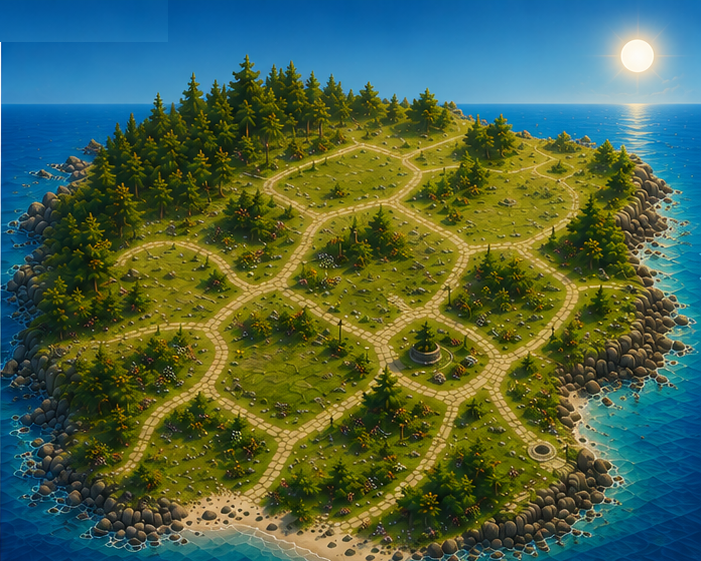
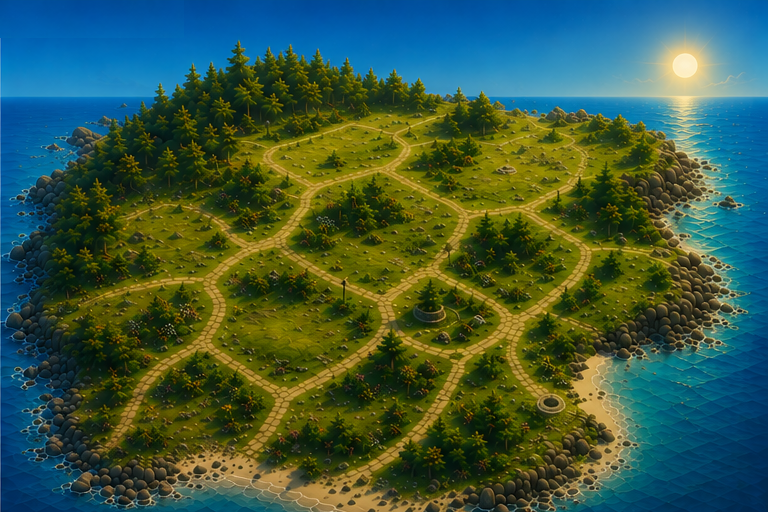
fix(map): ground building anchors to sprite base; buffered plate source
Anchors' y is now the sprite ground-contact (engine draws bottom at y*H), so
buildings sit on their plots instead of floating a half-height above. Plates
regenerated from the buffered blank terrain (full water margin); importer prefers
Maps/Midday.png then the blank, falling back to the labelled sheet.

Green: tsc, 407 tests, build.

Claude-Session: https://claude.ai/code/session_012FwgwgaKPTNAqU95ueK5yk

diff --git a/src/data/town-layout.ts b/src/data/town-layout.ts
@@ -104,22 +104,25 @@ export const TOWN_BUILDINGS_V2: readonly TownPiece[] = [
   // Sawmill+Farm across the north ridge, Lighthouse alone on its NE islet;
   // the Garden dome and Well run the centre spine; Fisher Hut + Dock sit on the
   // east/SE water; the south beach and north forest stay clear.
-  { art: 'prop_sign', x: 0.56, y: 0.52, w: 0.042, unlockAt: 1 },
-  { art: 'town_cottage', x: 0.31, y: 0.46, w: 0.13, unlockAt: 2, smoke: { dx: 0.18, dy: -0.72 }, ruinVariant: 0 },
-  { art: 'town_bakery', x: 0.64, y: 0.37, w: 0.125, unlockAt: 4, smoke: { dx: -0.2, dy: -0.78 }, ruinVariant: 2 },
-  { art: 'prop_well', x: 0.61, y: 0.47, w: 0.08, unlockAt: 6 },
-  { art: 'town_market', x: 0.66, y: 0.59, w: 0.115, unlockAt: 8, ruinVariant: 7 },
-  { art: 'town_garden', x: 0.52, y: 0.34, w: 0.135, unlockAt: 10, ruinVariant: 4 },
-  { art: 'town_townhall', x: 0.35, y: 0.34, w: 0.14, unlockAt: 12, ruinVariant: 3 },
-  { art: 'town_workshop', x: 0.52, y: 0.58, w: 0.125, unlockAt: 15, smoke: { dx: 0.16, dy: -0.75 }, ruinVariant: 1 },
-  { art: 'town_farm', x: 0.65, y: 0.25, w: 0.135, unlockAt: 16, ruinVariant: 5 },
+  // y is the sprite's GROUND CONTACT (bottom-center) — the engine draws
+  // drawImage(img, x*W - w/2, y*H - h) — so each y sits the building's base on
+  // its plot rather than floating the whole sprite above it.
+  { art: 'prop_sign', x: 0.56, y: 0.552, w: 0.042, unlockAt: 1 },
+  { art: 'town_cottage', x: 0.31, y: 0.511, w: 0.13, unlockAt: 2, smoke: { dx: 0.18, dy: -0.72 }, ruinVariant: 0 },
+  { art: 'town_bakery', x: 0.64, y: 0.421, w: 0.125, unlockAt: 4, smoke: { dx: -0.2, dy: -0.78 }, ruinVariant: 2 },
+  { art: 'prop_well', x: 0.61, y: 0.508, w: 0.08, unlockAt: 6 },
+  { art: 'town_market', x: 0.66, y: 0.638, w: 0.115, unlockAt: 8, ruinVariant: 7 },
+  { art: 'town_garden', x: 0.52, y: 0.394, w: 0.135, unlockAt: 10, ruinVariant: 4 },
+  { art: 'town_townhall', x: 0.35, y: 0.407, w: 0.14, unlockAt: 12, ruinVariant: 3 },
+  { art: 'town_workshop', x: 0.52, y: 0.628, w: 0.125, unlockAt: 15, smoke: { dx: 0.16, dy: -0.75 }, ruinVariant: 1 },
+  { art: 'town_farm', x: 0.65, y: 0.305, w: 0.135, unlockAt: 16, ruinVariant: 5 },
   // Joss's hut sits on the east shore, its stilt-deck out over the water
-  { art: 'town_fisherhut', x: 0.85, y: 0.48, w: 0.125, unlockAt: 18, ruinVariant: 6, water: true },
-  { art: 'town_sawmill', x: 0.47, y: 0.24, w: 0.13, unlockAt: 20, ruinVariant: 1 },
-  { art: 'town_blacksmith', x: 0.47, y: 0.47, w: 0.125, unlockAt: 21, smoke: { dx: 0.05, dy: -0.8 }, ruinVariant: 2 },
+  { art: 'town_fisherhut', x: 0.85, y: 0.535, w: 0.125, unlockAt: 18, ruinVariant: 6, water: true },
+  { art: 'town_sawmill', x: 0.47, y: 0.291, w: 0.13, unlockAt: 20, ruinVariant: 1 },
+  { art: 'town_blacksmith', x: 0.47, y: 0.525, w: 0.125, unlockAt: 21, smoke: { dx: 0.05, dy: -0.8 }, ruinVariant: 2 },
   // the jetty runs from the SE point out into the bay
-  { art: 'town_dock', x: 0.8, y: 0.64, w: 0.13, unlockAt: 22, ruinVariant: 5, water: true },
-  { art: 'town_library', x: 0.31, y: 0.57, w: 0.13, unlockAt: 23, ruinVariant: 3 },
+  { art: 'town_dock', x: 0.8, y: 0.697, w: 0.13, unlockAt: 22, ruinVariant: 5, water: true },
+  { art: 'town_library', x: 0.31, y: 0.627, w: 0.13, unlockAt: 23, ruinVariant: 3 },
 ] as const;
 
 /** The ACTIVE world (all consumers read this; the gate picks per the art). */

diff --git a/tools/import_map_v2.py b/tools/import_map_v2.py
@@ -59,9 +59,13 @@ def _first(*cands):
 
 
 PLATE_SHEET = _first(
+    # the buffered blank (island with full water margin, matches the placement
+    # reference framing) is preferred over the tighter labelled "Final" sheet;
+    # the user's high-res Maps/ exports supersede both when present.
+    SRC / "Map" / "Maps" / "Midday.png",  # (future: individual high-res exports)
+    SRC / "Map" / "Tests" / "Map times of dayBlank.png",
     SRC / "Map times of dayFinal.png",
     SRC / "Map" / "Map times of dayFinal.png",
-    SRC / "Map" / "MaptimesofdayFinal.png",
 )
 BUILDINGS_DIR = _first(
     SRC / "buildings",
